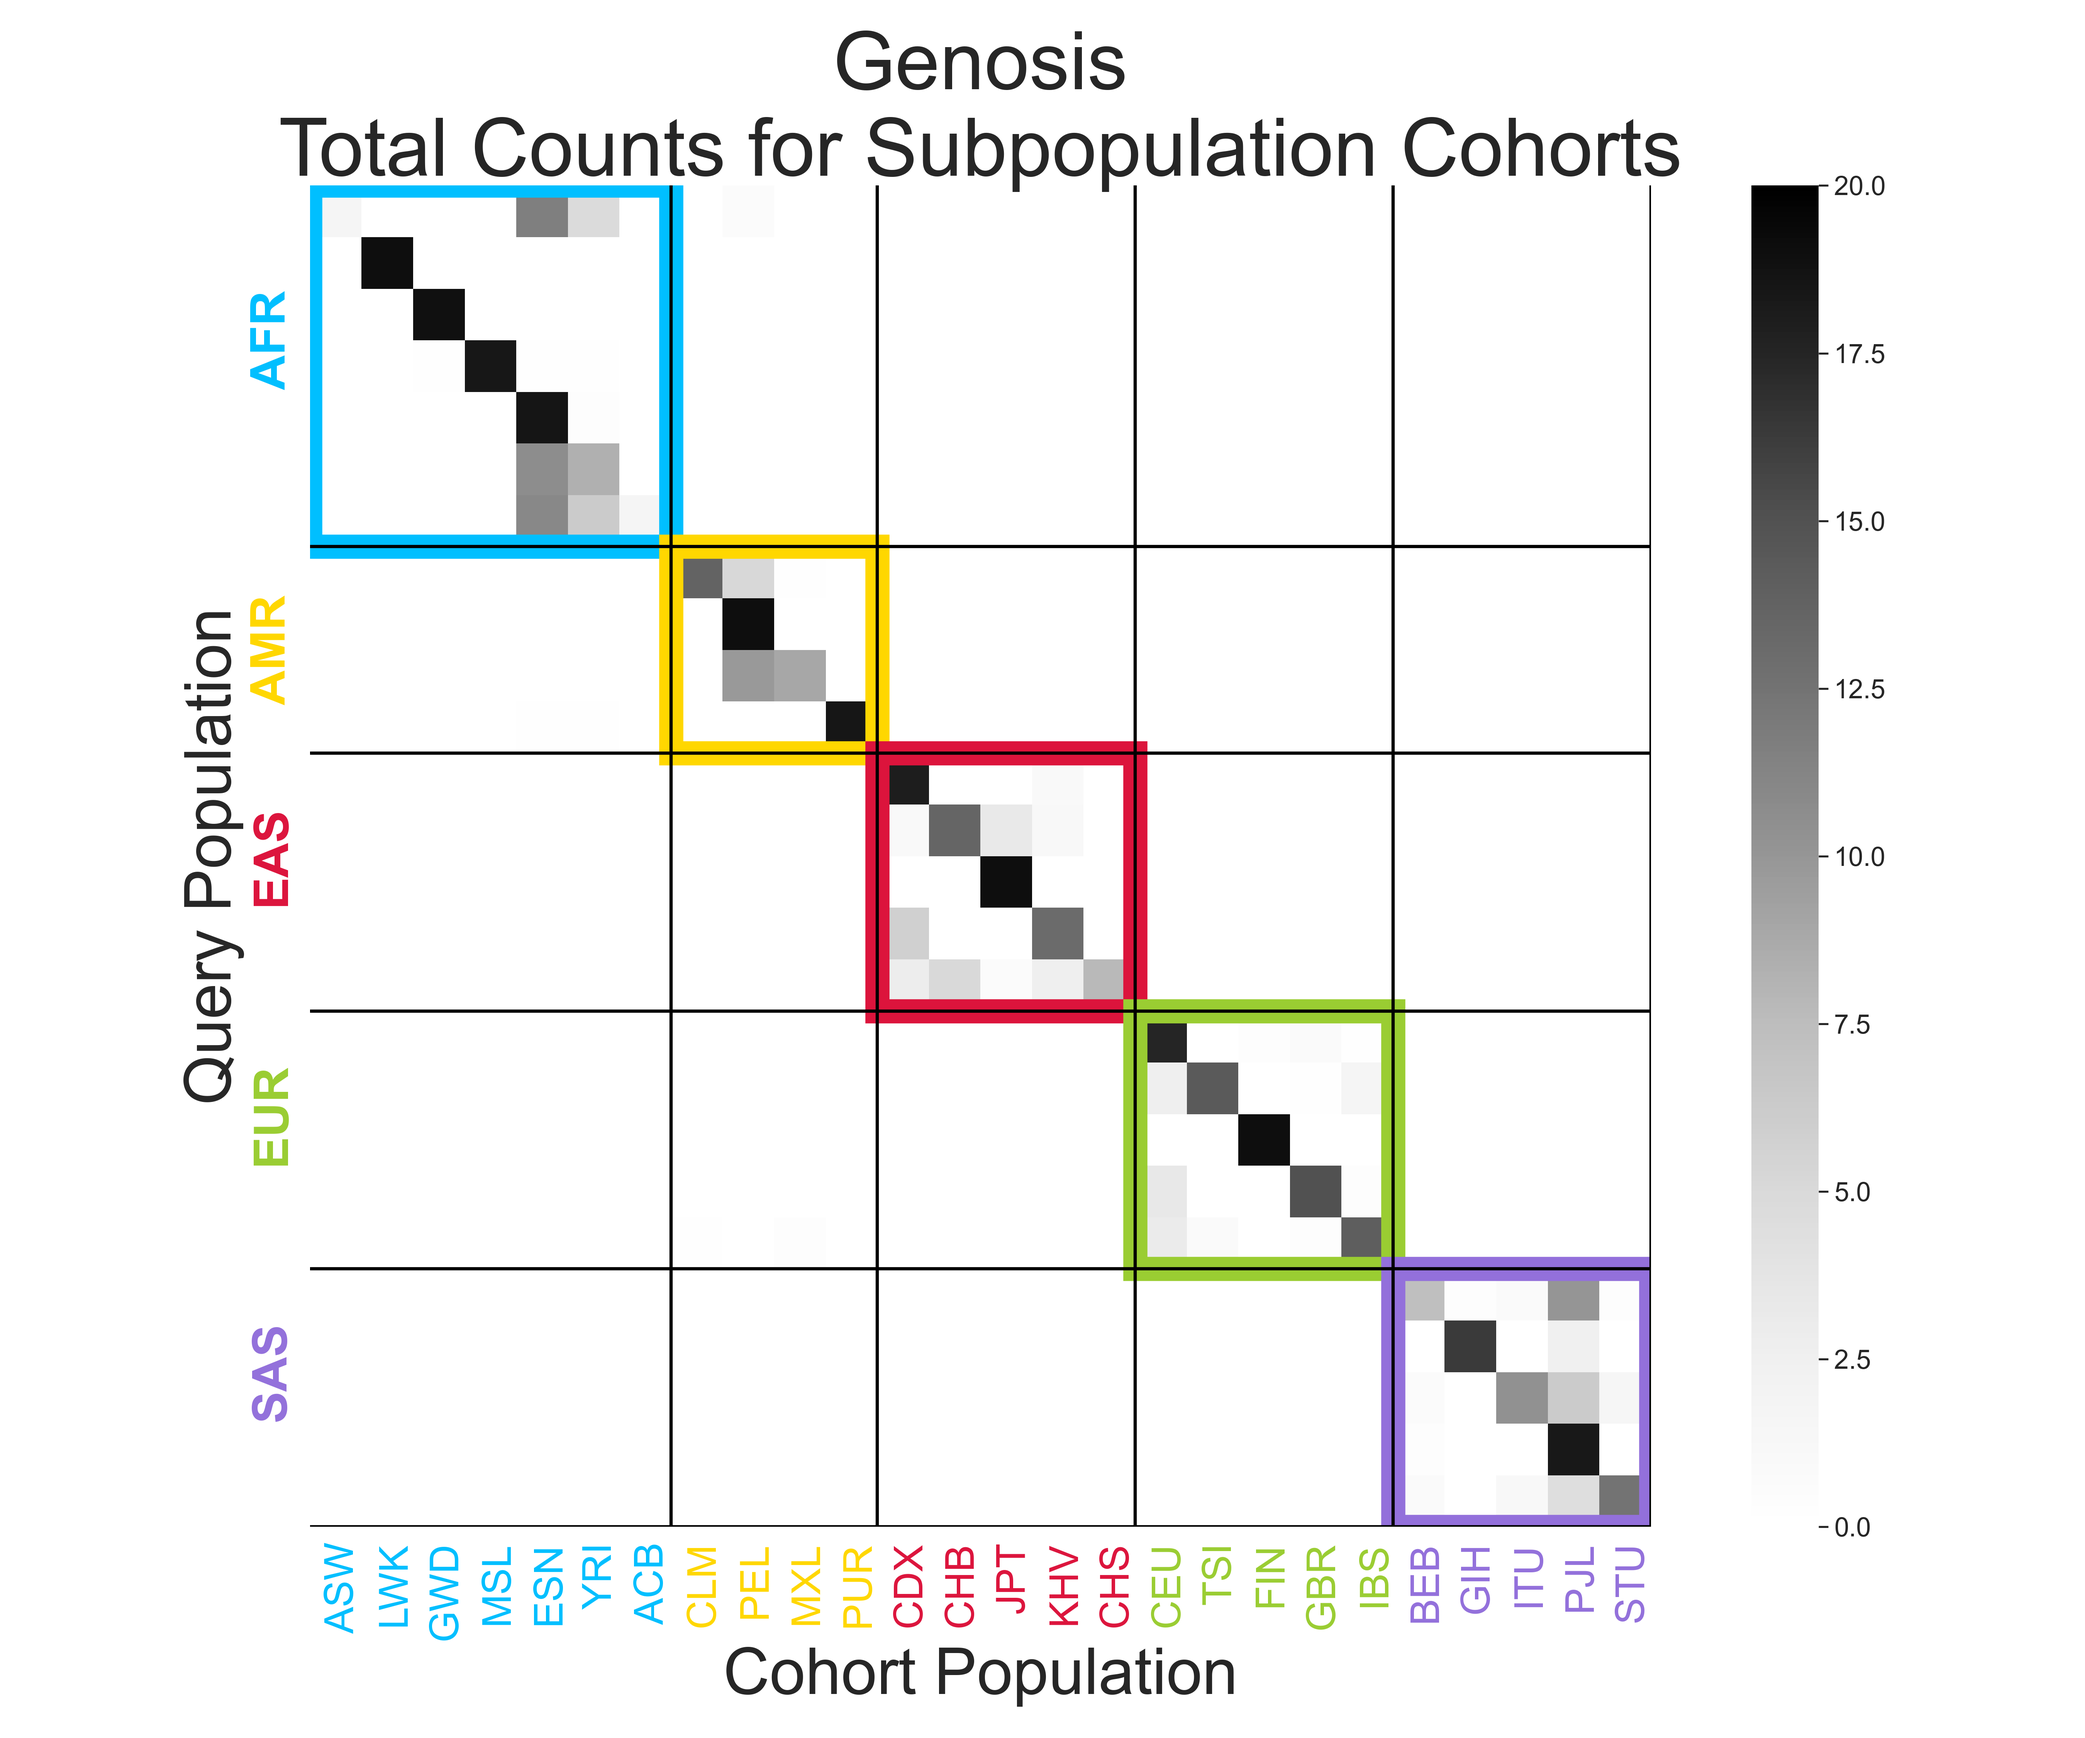
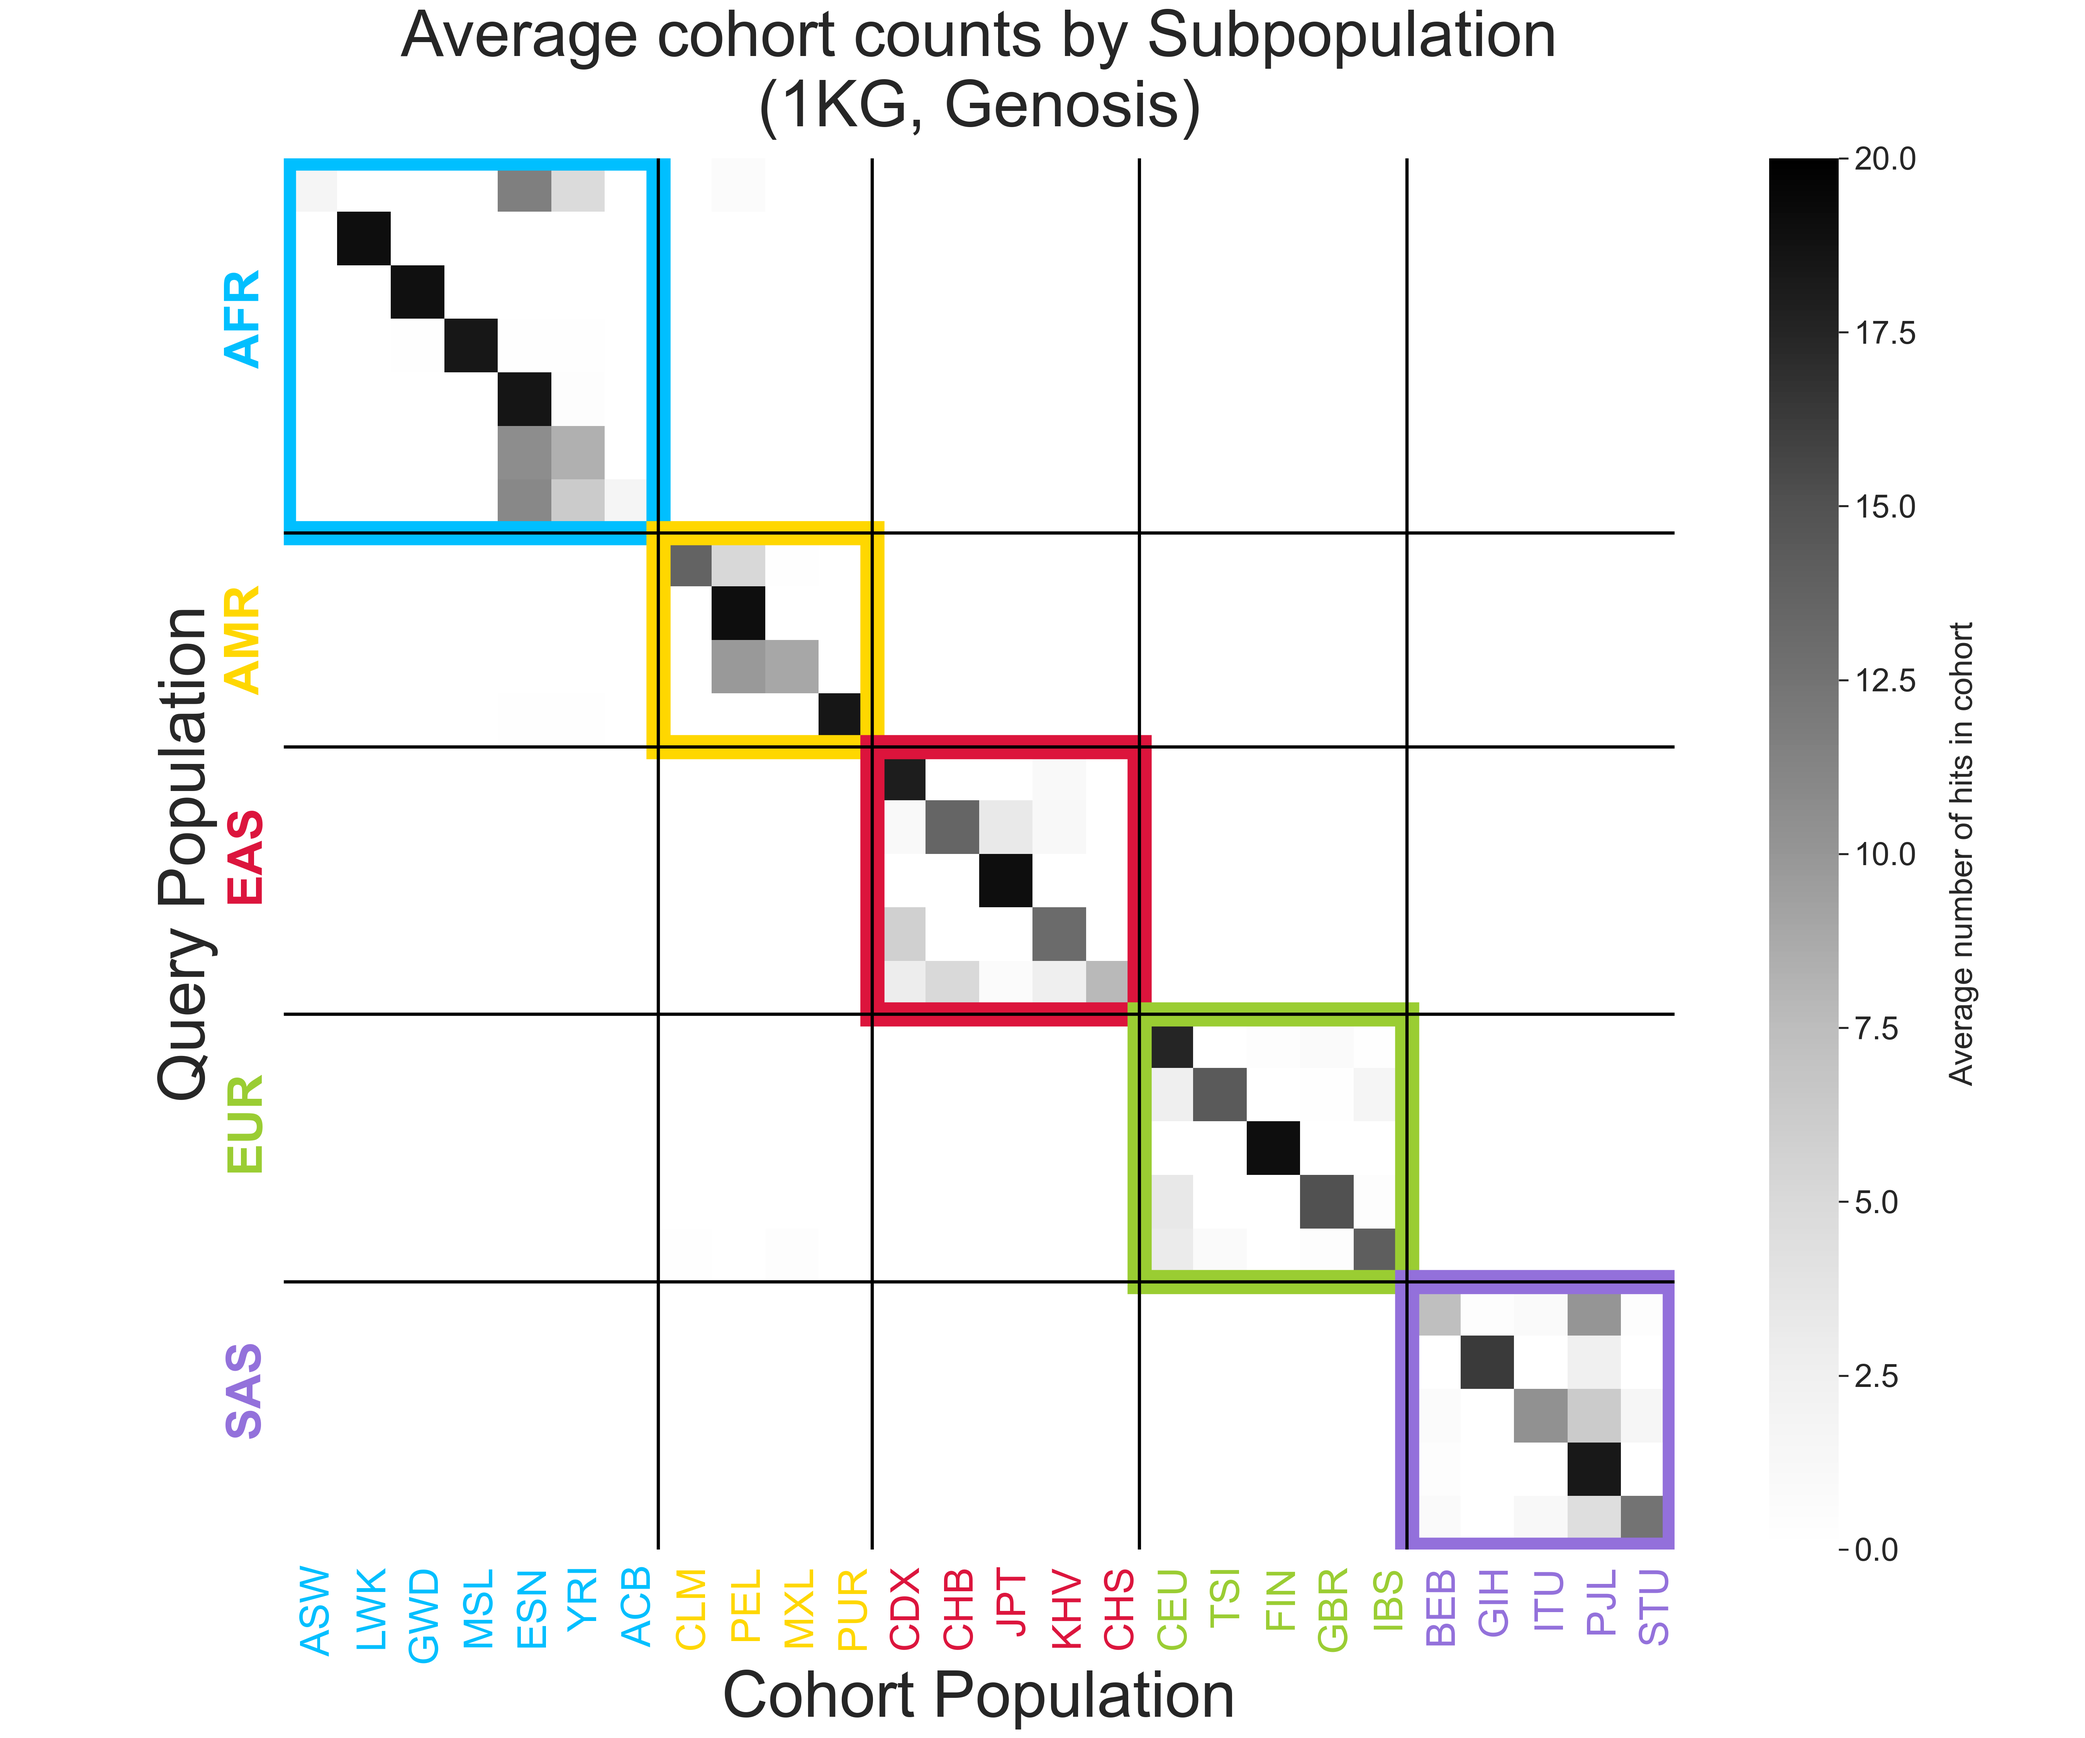
aligning heatmaps to same range

diff --git a/plotting/plot_ccpm_ancestry.py b/plotting/plot_ccpm_ancestry.py
@@ -85,29 +85,36 @@ def organize_data(ccpm_ancestry_data,
     return ancestry_counts
 
 
-def plot_data(ancestry_counts, png_file):
+def plot_data(ancestry_counts, png_file, num_chrom):
     '''
     Plot the ancestry data
     @param ancestry_counts: dictionary of dictionaries with ancestry as key and list of cohort counts as values
     @param png_file: path to the output png file
     '''
-    # Plot with heatmap ancestry labels as x and y
-    fig, ax = plt.subplots(figsize=(12, 10), dpi=300)
-    # get average counts for each ancestry
-    avg_counts = {a: [np.mean(ancestry_counts[a][b])/3 for b in ancestry_counts[a]] for a in ancestry_counts}
+    ordered_ancestry = ['Africa', 'America', 'East Asian', 'Europe', 'Middle East', 'Central South Asian']
+    ordered_ancestry_labels = ['Africa', 'America', 'East\nAsian', 'Europe', 'Middle\nEast', 'Central\nSouth Asian']
+    # Plot with heatmap ancestry labels as x and y in order
+    fig, ax = plt.subplots(figsize=(18, 15), dpi=300)
+    # get average counts for each ancestry in order
+    # avg_counts = {a: [np.mean(ancestry_counts[a][b])/num_chrom for b in ancestry_counts[a]] for a in ancestry_counts}
+    avg_counts = {a: [np.mean(ancestry_counts[a][b])/ num_chrom for b in ordered_ancestry] for a in ordered_ancestry}
     df = pd.DataFrame(avg_counts)
-
+    sns.set(font_scale=1.5)
     # Plot the heatmap transposed with range 0 to 20
-    sns.heatmap(df.T, cmap='Blues', ax=ax,
-                cbar_kws={'label': 'Average number of hits in cohort'},
-                annot=True, fmt='.2f',
+    sns.heatmap(df.T, cmap='Greys', ax=ax,
+                square=True,
+                annot=False, fmt='.2f', annot_kws={'size': 20},
                 vmin=0, vmax=20)
-    ax.set_title('Average cohort counts by ancestry\nCCPM (chrm 21-22)', fontsize=16, fontweight='bold', pad=20)
-    ax.set_xlabel('Cohort Ancestry', fontsize=12, fontweight='bold', labelpad=10)
-    ax.set_ylabel('Query Ancestry', fontsize=12, fontweight='bold', labelpad=10)
-    ax.set_xticks(np.arange(0.5, len(df.columns), 1), df.columns)
-    ax.set_yticks(np.arange(0.5, len(df.columns), 1), df.columns)
+    cbar = ax.collections[0].colorbar
+    cbar.set_label('Average number of hits in cohort', fontsize=20, labelpad=20)
+    ax.set_title('Average cohort counts by ancestry\nCCPM (chrm 1-11,20-22)', fontsize=40, pad=20)
+    ax.set_xlabel('Cohort Population', fontsize=35, labelpad=20)
+    ax.set_ylabel('Query Population', fontsize=35, labelpad=20)
+    ax.set_xticklabels(ordered_ancestry_labels, fontsize=20)
+    ax.set_yticklabels(ordered_ancestry_labels, fontsize=20)
 
+
+    plt.tight_layout()
     plt.savefig(png_file)
 
 
@@ -117,6 +124,8 @@ def main():
     ccpm_ancestry_file = args.ancestry
     ancestry_dir = args.ancestry_dir
     png_file = args.png
+
+    num_chrom = 13
 
     print('Reading ccpm ancestry file')
     ccpm_ancestry = read_ccpm_ancestry(ccpm_ancestry_file)
@@ -136,7 +145,7 @@ def main():
                                     ccpm_ancestry_labels)
 
     # Plot the data
-    plot_data(ancestry_counts, png_file)
+    plot_data(ancestry_counts, png_file, num_chrom)
 
 
 

diff --git a/plotting/figure_sup_subpops.py b/plotting/figure_sup_subpops.py
@@ -216,7 +216,8 @@ def plot_heatmap_counts(subpop_counts,
     df = pd.DataFrame(subpop_counts_avg)
     sns.set(font_scale=1.5)
     sns.heatmap(df.T, cmap='Greys', annot=False, cbar=True, square=True,
-                vmin=0, vmax=20)
+                vmin=0, vmax=20,
+                cbar_kws={'label': 'Average number of hits in cohort'})
     # add patches for superpopulations
     line_offset = 0
     for i in SUPER_SUBPOPULATIONS:
@@ -253,20 +254,29 @@ def plot_heatmap_counts(subpop_counts,
     for tick in plt.gca().get_yticklabels():
         tick.set_color(colors[tick.get_text()])
 
-    # draw lines between superpopulations
+    # draw lines between superpopulations except last one
     line_offset = 0
     for i in SUPER_SUBPOPULATIONS:
+        if i == 'SAS':
+            break
         num_subpops = len(SUPER_SUBPOPULATIONS[i])
         plt.axhline(num_subpops + line_offset, color='black', linewidth=2)
         plt.axvline(num_subpops + line_offset, color='black', linewidth=2)
         line_offset += num_subpops
 
+
     plt.xlabel('Cohort Population', fontsize=40)
     plt.ylabel('Query Population', fontsize=40)
-    title += '\nTotal Counts for Subpopulation Cohorts'
-    plt.title(title, fontsize=50)
+    figure_title = ('Average cohort counts by Subpopulation' +
+                    '\n(1KG, ' + title + ')' )
+
+    # set colorbar font and label
+    cbar = plt.gca().collections[0].colorbar
+    cbar.ax.tick_params(labelsize=20)
+    cbar.set_label('Average number of hits in cohort', fontsize=20, labelpad=20)
+
+    plt.title(figure_title, fontsize=40, pad=20)
     # move plot to make room for title
-    plt.subplots_adjust(top=0.9, bottom=0.2, right=0.9, left=0.1)
     plt.tight_layout()
     plt.savefig(output_file)
 
@@ -288,21 +298,21 @@ def main():
                                              header=True)
     plot_heatmap_counts(dst_subpop_counts,
                         colors,
-                        'DST',
+                        'plink DST',
                         args.png + 'dst_counts.png')
 
     pihat_subpop_counts = read_subpop_counts(args.pihat,
                                                 header=True)
     plot_heatmap_counts(pihat_subpop_counts,
                         colors,
-                        'Pihat',
+                        'plink pi-hat',
                         args.png + 'pihat_counts.png')
 
     kinship_subpop_counts = read_subpop_counts(args.kinship,
                                                 header=True)
     plot_heatmap_counts(kinship_subpop_counts,
                         colors,
-                        'Kinship',
+                        'plink2 kinship',
                         args.png + 'kinship_counts.png')
 
 

diff --git a/README.md b/README.md
@@ -47,7 +47,7 @@ python plotting/figure2_related.py \
 
 </details>
 
-### Figure 3: Ancestry Data
+### Figure 3.1: Ancestry Data
 ```
 python plotting/figure3_ancestry.py \
     --ancestry data/1kg_info/1kg_ancestry.tsv \
@@ -71,6 +71,46 @@ python plotting/figure3_ancestry.py \
 
 </details>
 
+#### Figure 3.2: 1KG subopulations
+```
+python plotting/figure_sup_subpops.py \
+    --ancestry data/1kg_info/1kg_ancestry.tsv \
+    --k 20 \
+    --colors pub_figures/colors.txt \
+    --genosis data/subpop_counts/genosis_counts.tsv \
+    --dst data/subpop_counts/dst_counts.tsv \
+    --pihat data/subpop_counts/pihat_counts.tsv \
+    --kin data/subpop_counts/kinship_counts.tsv \
+    --png pub_figures/
+```
+<details>
+
+|                                                           |                                                           |
+|-----------------------------------------------------------|-----------------------------------------------------------|
+| ![genosis-subpop-heatmap](pub_figures/genosis_counts.png) | ![dst-subpop-heatmap](pub_figures/dst_counts.png)         |
+| ![pi-hat-subpop-heatmap](pub_figures/pihat_counts.png)    | ![kinship-subpop-heatmap](pub_figures/kinship_counts.png) |
+
+</details>
+
+### Figure 3.3: CCPM Ancestries
+```
+python plotting/plot_ccpm.py \
+    --ancestry data/ccpm_data/R168_ccpm_f3_PCs_genetic_similarity_19Jun2024.txt
+    --ancestry_dir data/ccpm_data/ccpm_results/
+    --png pub_figures/ccpm_ancestry.png
+```
+
+<details>
+
+![ccpm_ancestry](pub_figures/ccpm_ancestry.png)
+
+</details>
+
+### Figure 4: Timing
+```
+tbd
+```
+
 ### Figure 5: Cohort Quality
 ```
 python plotting/figure5_quality.py \
@@ -92,26 +132,7 @@ python plotting/figure5_quality.py \
 
 
 ### SUPPLEMENTAL
-#### Figure S1: Cohort Counts by Subpopulation
-```
-python plotting/figure_sup_subpops.py \
-    --ancestry data/1kg_info/1kg_ancestry.tsv \
-    --k 20 \
-    --colors pub_figures/colors.txt \
-    --genosis data/subpop_counts/genosis_subpop_counts.tsv \
-    --dst data/subpop_counts/dst_subpop_counts.tsv \
-    --pihat data/subpop_counts/pihat_subpop_counts.tsv \
-    --kin data/subpop_counts/kinship_subpop_counts.tsv \
-    --png pub_figures/
-```
-<details>
 
-| | |
-|-------|-------|
-| ![genosis-subpop-heatmap](pub_figures/supplement_subpop_genosis.png) | ![dst-subpop-heatmap](pub_figures/supplement_subpop_dst.png) |
-| ![pi-hat-subpop-heatmap](pub_figures/supplement_subpop_pihat.png) | ![kinship-subpop-heatmap](pub_figures/supplement_subpop_kinship.png) |
-
-</details>
 
 --------------------------------------------
 _!! **I have done some reorganizing of the data files, so paths might be wrong below** !!_
